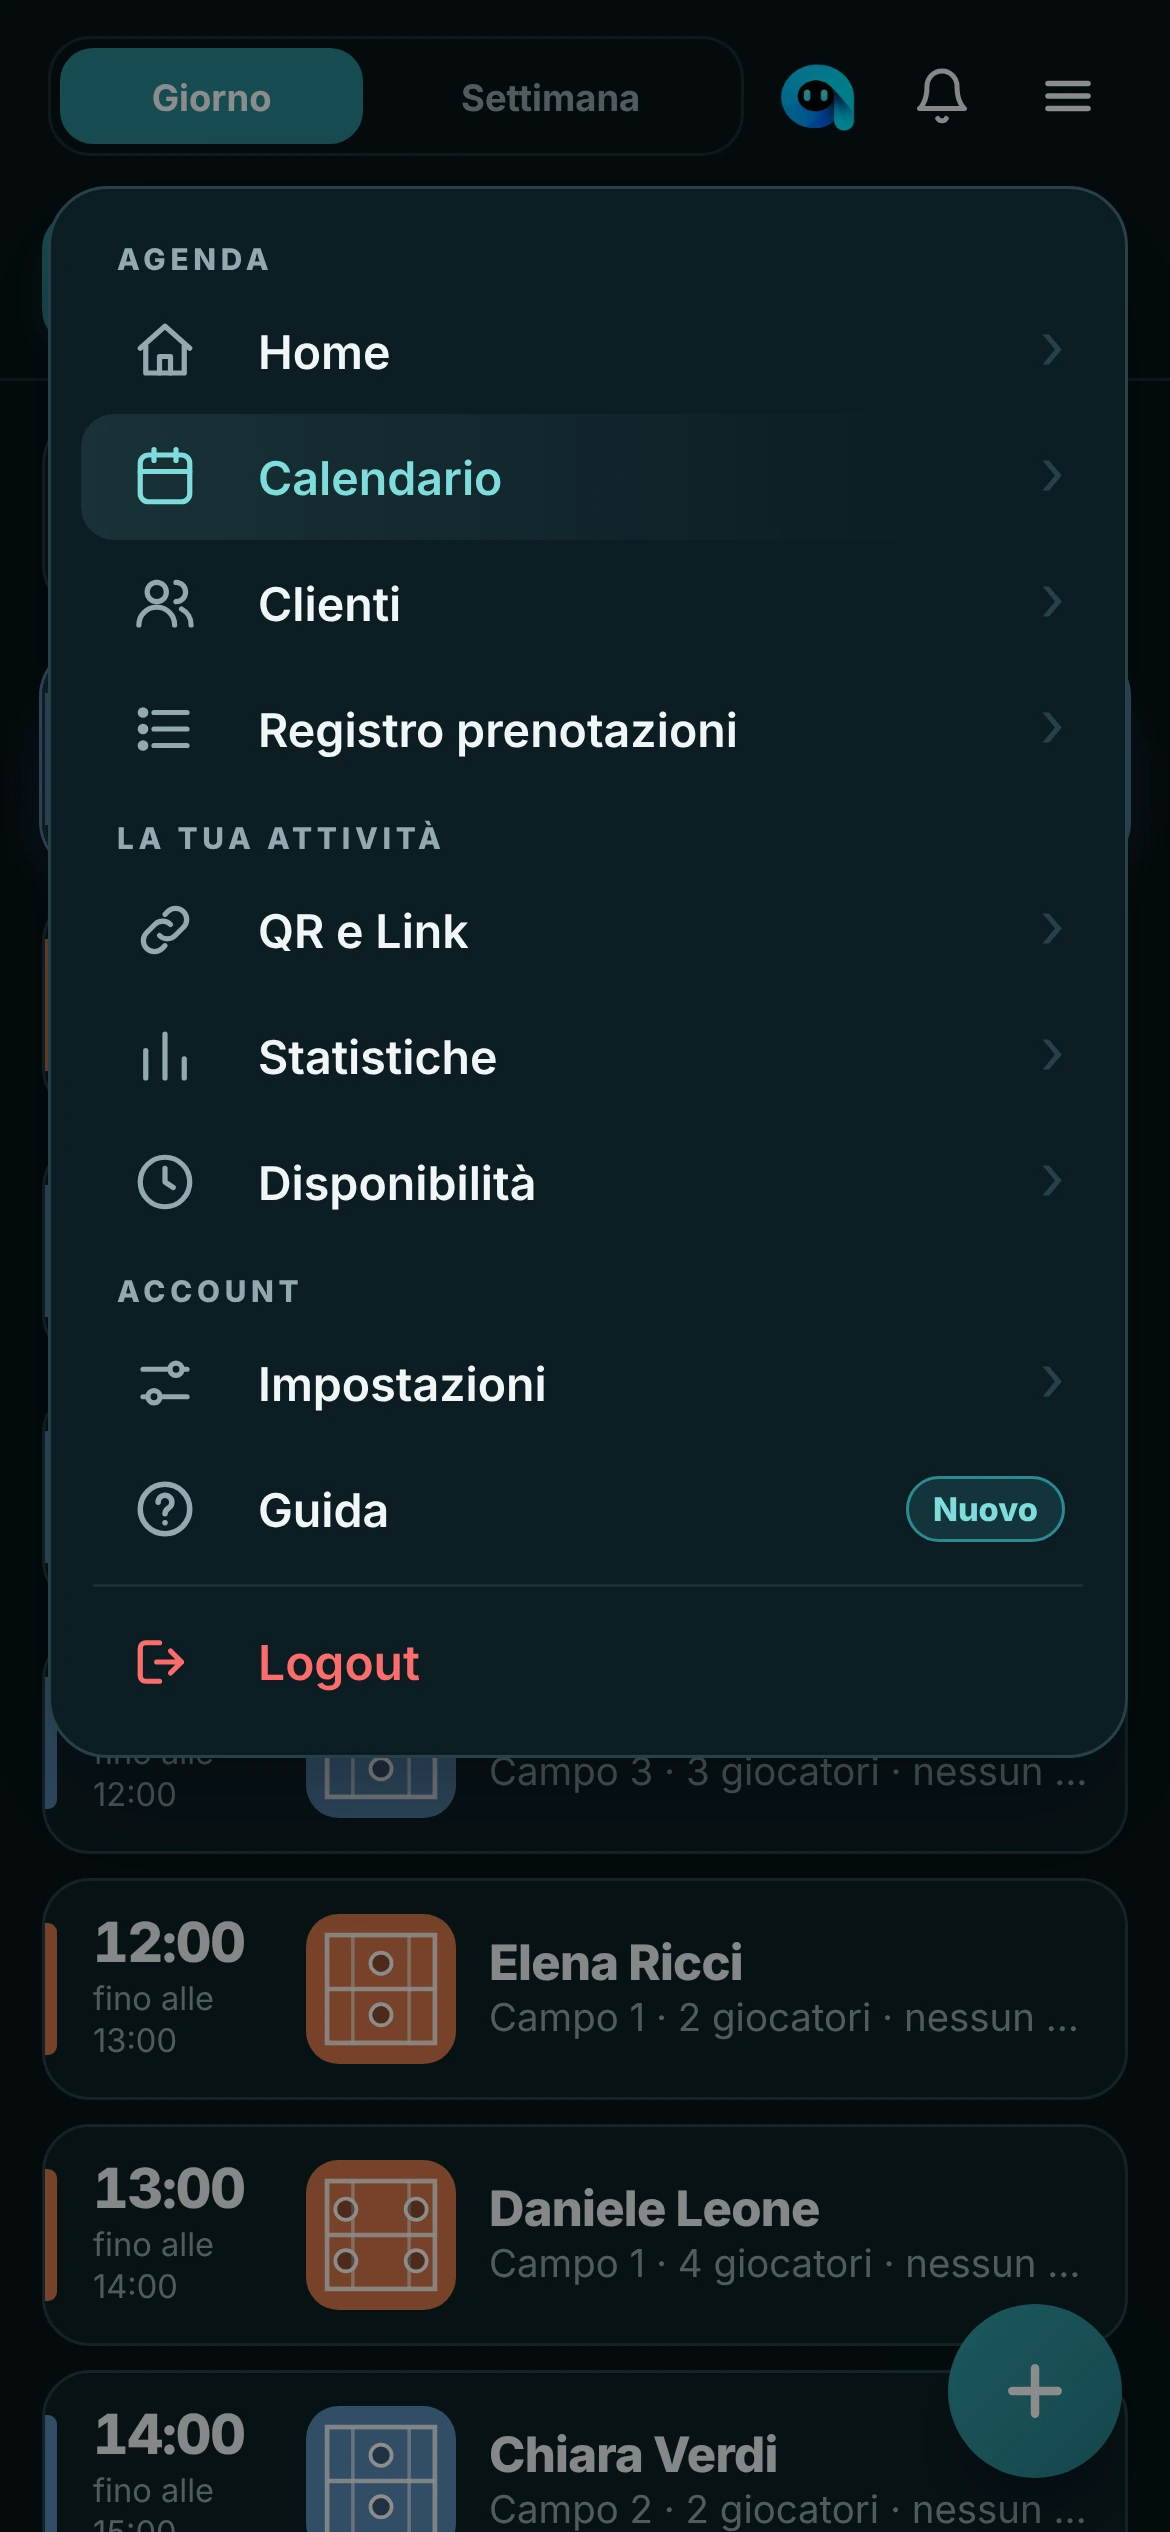
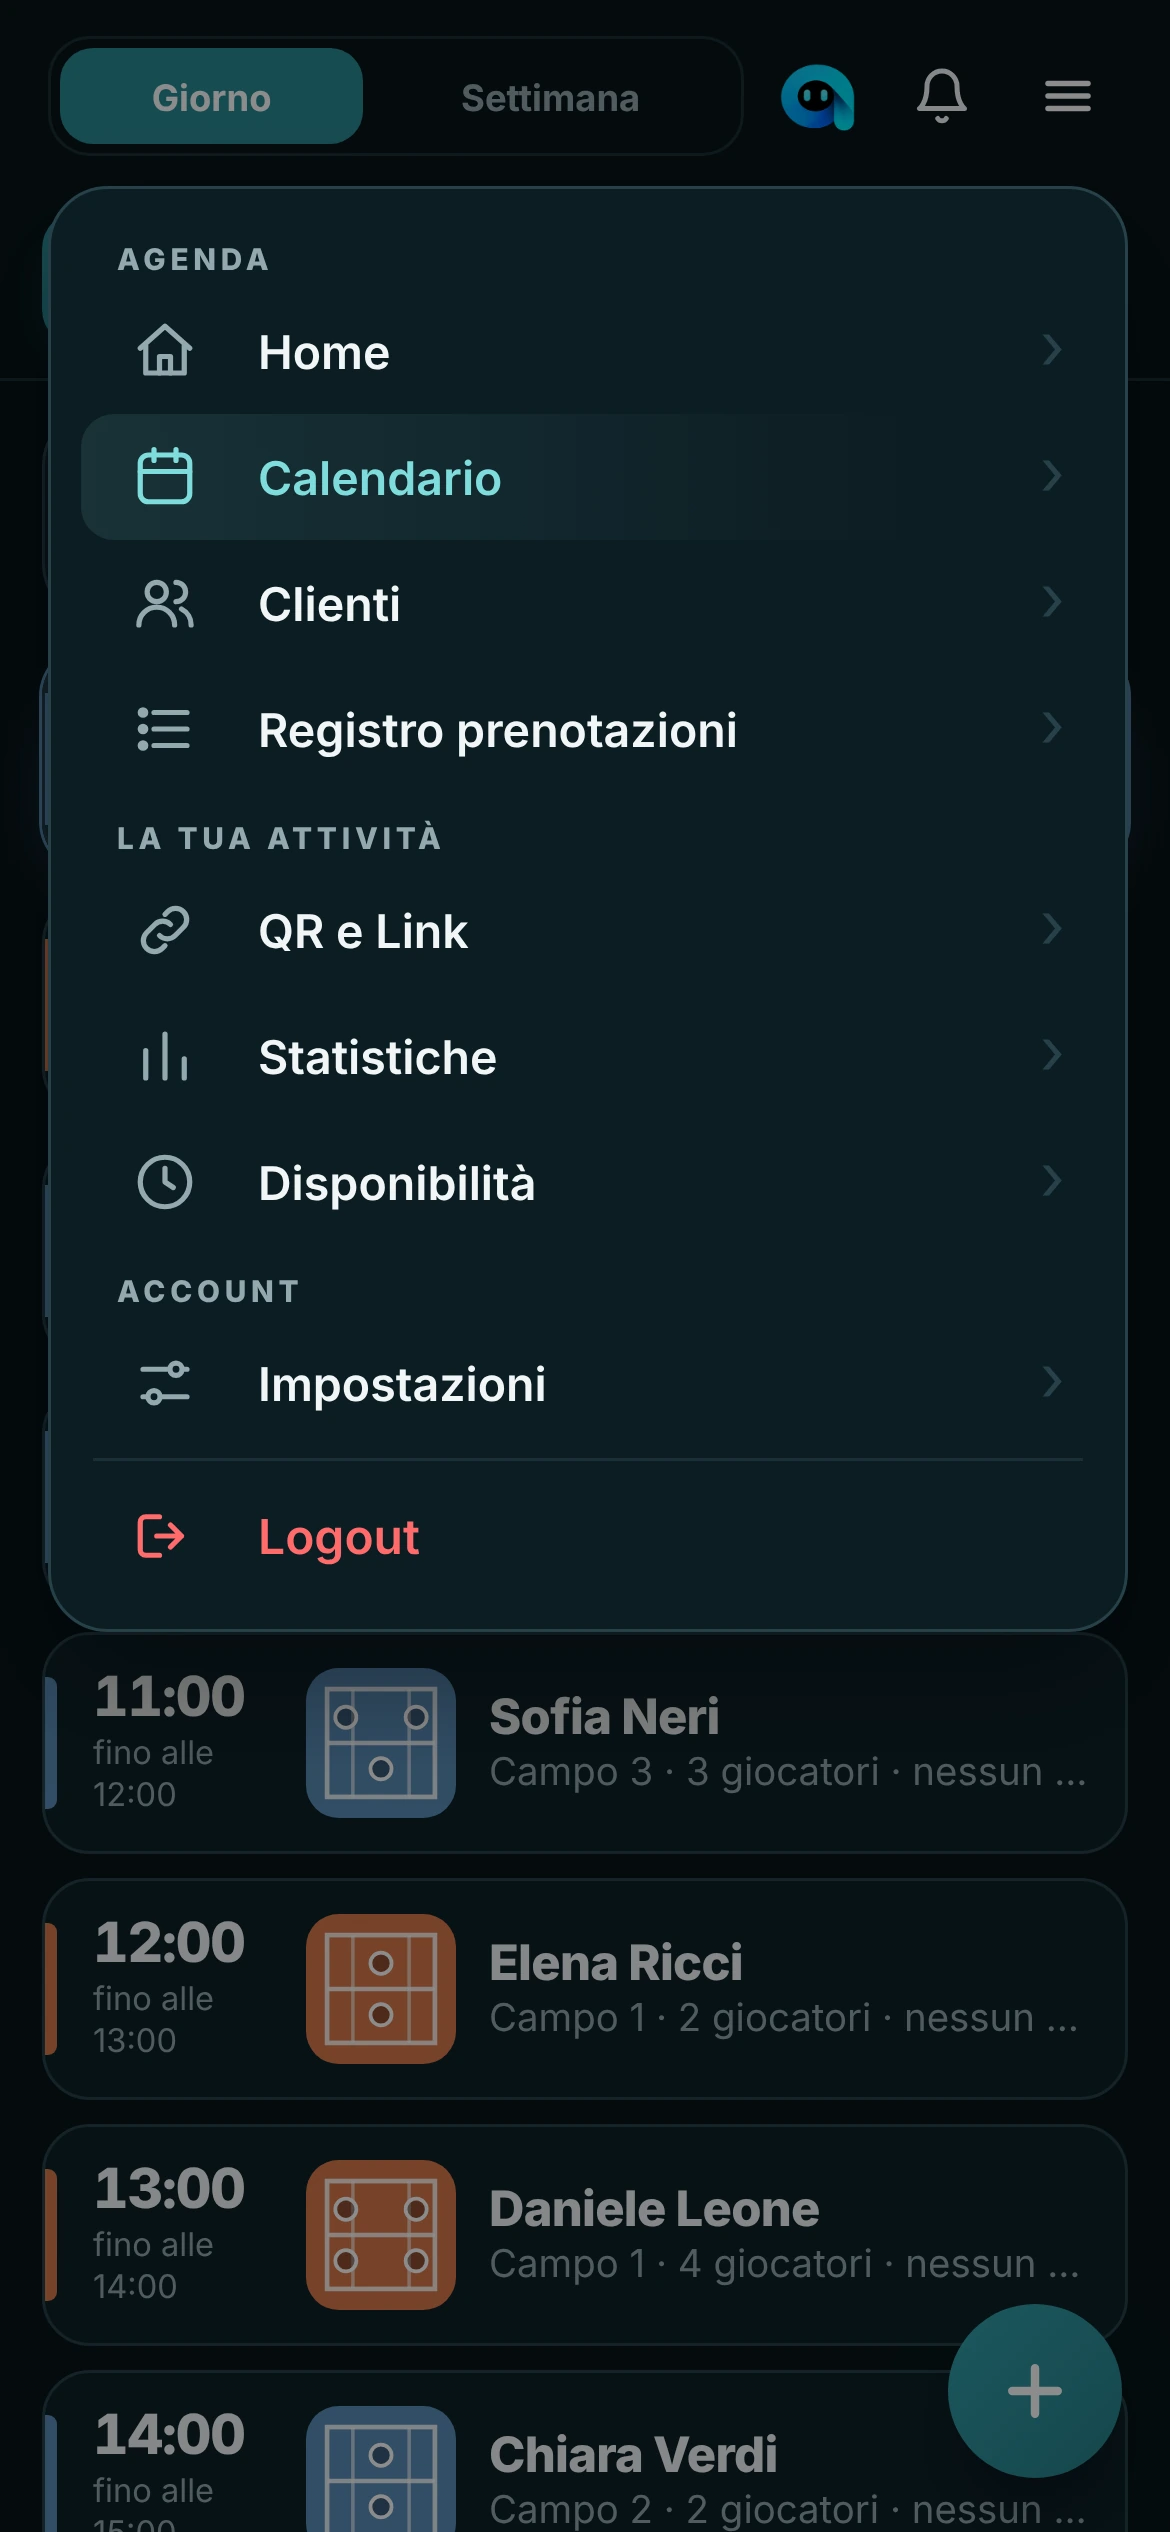
Landing: schermate del menu aggiornate senza la voce Guida
Claude-Session: https://claude.ai/code/session_01MPSQ5gPGxBdwuEvTe8DKVh

diff --git a/public/provahtml/index.html b/public/provahtml/index.html
@@ -868,8 +868,8 @@ var K=[{k:'h',l:'Servizi alla persona',v:norm('h')},
 var G={'Home':'Questa è la tua *home*: la giornata di oggi e tutto quello che ti serve, a un tocco.','Iscritti':'Ecco i tuoi *iscritti*, con i coaching che restano a ciascuno.','Calendario':'Ecco il tuo *calendario*: gli appuntamenti sono tutti qui, sempre in ordine.','Campi':'Ecco i tuoi *campi*: le prenotazioni sono tutte qui, sempre in ordine.','Menu':'Dal *menu* trovi tutto: QR e Link, disponibilità, impostazioni e guida.','Mese':'Questa è la *vista mese*: guardi tutto il mese con una sola occhiata.','Statistiche':'Qui ci sono le *statistiche*: scopri come cresce la tua attività.','Clienti':'E qui ci sono i tuoi *clienti*, tutti in un posto solo.'};
 K.forEach(function(x){x.v.forEach(function(v){if(G[v.n])v.d=G[v.n]})});
 (function(){var z=document.querySelector('#pfCap .sz'),bb=z.parentNode;Object.keys(G).forEach(function(n){var e=document.createElement('span');e.className='sz';e.setAttribute('aria-hidden','true');e.innerHTML=G[n].replace(/\*([^*]+)\*/g,'<b>$1</b>');bb.insertBefore(e,z)});bb.removeChild(z)})();
-var IMG={"h": [["/provahtml/img/h0-t.webp?v=5", "/provahtml/img/h0-p.webp?v=4"], ["/provahtml/img/h1-t.webp?v=5", "/provahtml/img/h1-p.webp?v=4"], ["/provahtml/img/h2-t.webp?v=5", "/provahtml/img/h2-p.webp?v=4"], ["/provahtml/img/h3-t.webp?v=5", "/provahtml/img/h3-p.webp?v=4"], ["/provahtml/img/h4-t.webp?v=5", "/provahtml/img/h4-p.webp?v=4"], ["/provahtml/img/h5-t.webp?v=5", "/provahtml/img/h5-p.webp?v=4"]], "m": [["/provahtml/img/m0-t.webp?v=5", "/provahtml/img/m0-p.webp?v=4"], ["/provahtml/img/m1-t.webp?v=5", "/provahtml/img/m1-p.webp?v=4"], ["/provahtml/img/m2-t.webp?v=5", "/provahtml/img/m2-p.webp?v=4"], ["/provahtml/img/m3-t.webp?v=5", "/provahtml/img/m3-p.webp?v=4"], ["/provahtml/img/m4-t.webp?v=5", "/provahtml/img/m4-p.webp?v=4"], ["/provahtml/img/m5-t.webp?v=5", "/provahtml/img/m5-p.webp?v=4"]], "d": [["/provahtml/img/d0-t.webp?v=5", "/provahtml/img/d0-p.webp?v=4"], ["/provahtml/img/d1-t.webp?v=5", "/provahtml/img/d1-p.webp?v=4"], ["/provahtml/img/d2-t.webp?v=5", "/provahtml/img/d2-p.webp?v=4"], ["/provahtml/img/d3-t.webp?v=5", "/provahtml/img/d3-p.webp?v=4"], ["/provahtml/img/d4-t.webp?v=5", "/provahtml/img/d4-p.webp?v=4"], ["/provahtml/img/d5-t.webp?v=5", "/provahtml/img/d5-p.webp?v=4"]], "c": [["/provahtml/img/c0-t.webp?v=5", "/provahtml/img/c0-p.webp?v=4"], ["/provahtml/img/c1-t.webp?v=5", "/provahtml/img/c1-p.webp?v=4"], ["/provahtml/img/c2-t.webp?v=5", "/provahtml/img/c2-p.webp?v=4"], ["/provahtml/img/c3-t.webp?v=5", "/provahtml/img/c3-p.webp?v=4"], ["/provahtml/img/c4-t.webp?v=5", "/provahtml/img/c4-p.webp?v=4"]]};
-IMG.p=[["/provahtml/img/pd0-t.webp?v=5", "/provahtml/img/pd0-p.webp?v=4"], ["/provahtml/img/pd1-t.webp?v=5", "/provahtml/img/pd1-p.webp?v=4"], ["/provahtml/img/pd2-t.webp?v=5", "/provahtml/img/pd2-p.webp?v=4"], ["/provahtml/img/pd3-t.webp?v=5", "/provahtml/img/pd3-p.webp?v=4"], ["/provahtml/img/pd4-t.webp?v=5", "/provahtml/img/pd4-p.webp?v=4"], ["/provahtml/img/pd5-t.webp?v=5", "/provahtml/img/pd5-p.webp?v=4"]];
+var IMG={"h": [["/provahtml/img/h0-t.webp?v=6", "/provahtml/img/h0-p.webp?v=6"], ["/provahtml/img/h1-t.webp?v=6", "/provahtml/img/h1-p.webp?v=6"], ["/provahtml/img/h2-t.webp?v=6", "/provahtml/img/h2-p.webp?v=6"], ["/provahtml/img/h3-t.webp?v=6", "/provahtml/img/h3-p.webp?v=6"], ["/provahtml/img/h4-t.webp?v=6", "/provahtml/img/h4-p.webp?v=6"], ["/provahtml/img/h5-t.webp?v=6", "/provahtml/img/h5-p.webp?v=6"]], "m": [["/provahtml/img/m0-t.webp?v=6", "/provahtml/img/m0-p.webp?v=6"], ["/provahtml/img/m1-t.webp?v=6", "/provahtml/img/m1-p.webp?v=6"], ["/provahtml/img/m2-t.webp?v=6", "/provahtml/img/m2-p.webp?v=6"], ["/provahtml/img/m3-t.webp?v=6", "/provahtml/img/m3-p.webp?v=6"], ["/provahtml/img/m4-t.webp?v=6", "/provahtml/img/m4-p.webp?v=6"], ["/provahtml/img/m5-t.webp?v=6", "/provahtml/img/m5-p.webp?v=6"]], "d": [["/provahtml/img/d0-t.webp?v=6", "/provahtml/img/d0-p.webp?v=6"], ["/provahtml/img/d1-t.webp?v=6", "/provahtml/img/d1-p.webp?v=6"], ["/provahtml/img/d2-t.webp?v=6", "/provahtml/img/d2-p.webp?v=6"], ["/provahtml/img/d3-t.webp?v=6", "/provahtml/img/d3-p.webp?v=6"], ["/provahtml/img/d4-t.webp?v=6", "/provahtml/img/d4-p.webp?v=6"], ["/provahtml/img/d5-t.webp?v=6", "/provahtml/img/d5-p.webp?v=6"]], "c": [["/provahtml/img/c0-t.webp?v=6", "/provahtml/img/c0-p.webp?v=6"], ["/provahtml/img/c1-t.webp?v=6", "/provahtml/img/c1-p.webp?v=6"], ["/provahtml/img/c2-t.webp?v=6", "/provahtml/img/c2-p.webp?v=6"], ["/provahtml/img/c3-t.webp?v=6", "/provahtml/img/c3-p.webp?v=6"], ["/provahtml/img/c4-t.webp?v=6", "/provahtml/img/c4-p.webp?v=6"]]};
+IMG.p=[["/provahtml/img/pd0-t.webp?v=6", "/provahtml/img/pd0-p.webp?v=6"], ["/provahtml/img/pd1-t.webp?v=6", "/provahtml/img/pd1-p.webp?v=6"], ["/provahtml/img/pd2-t.webp?v=6", "/provahtml/img/pd2-p.webp?v=6"], ["/provahtml/img/pd3-t.webp?v=6", "/provahtml/img/pd3-p.webp?v=6"], ["/provahtml/img/pd4-t.webp?v=6", "/provahtml/img/pd4-p.webp?v=6"], ["/provahtml/img/pd5-t.webp?v=6", "/provahtml/img/pd5-p.webp?v=6"]];
 var TI={p:'<path d="M6.5 6.5v11M17.5 6.5v11M3.5 9v6M20.5 9v6M6.5 12h11"/>',h:'<circle cx="6" cy="6" r="3"/><circle cx="6" cy="18" r="3"/><path d="M20 4L8.1 15.9M14.5 14.5L20 20M8.1 8.1L12 12"/>',c:'<ellipse cx="14.5" cy="9.5" rx="5.5" ry="7" transform="rotate(40 14.5 9.5)"/><path d="M10.6 13.4L4 20"/><circle cx="19" cy="19" r="1.6"/>',m:'<path d="M9 3h6v6h6v6h-6v6H9v-6H3V9h6z"/>',d:'<path d="M3 11l9-8 9 8v9a1 1 0 0 1-1 1h-4.5v-6h-7v6H4a1 1 0 0 1-1-1z"/>'};var tabs=document.getElementById('pfTabs'),set=document.getElementById('pfSet'),nav=document.getElementById('pfNav'),cap=document.getElementById('pfCap');if(!tabs)return;
 var cs=-1,cv=-1,busy=null,auto=null,manual=false,DUR=7000;
 K.forEach(function(x,i){var b=document.createElement('button');b.type='button';b.innerHTML='<svg class="ti" viewBox="0 0 24 24" fill="none" stroke="currentColor" stroke-width="1.9" stroke-linecap="round" stroke-linejoin="round" aria-hidden="true">'+TI[x.k]+'</svg><span class="tf">'+x.l+'</span>';b.setAttribute('aria-label',x.l);b.setAttribute('role','tab');b.setAttribute('aria-pressed','false');b.onclick=function(){manual=false;goS(i)};tabs.appendChild(b)});
